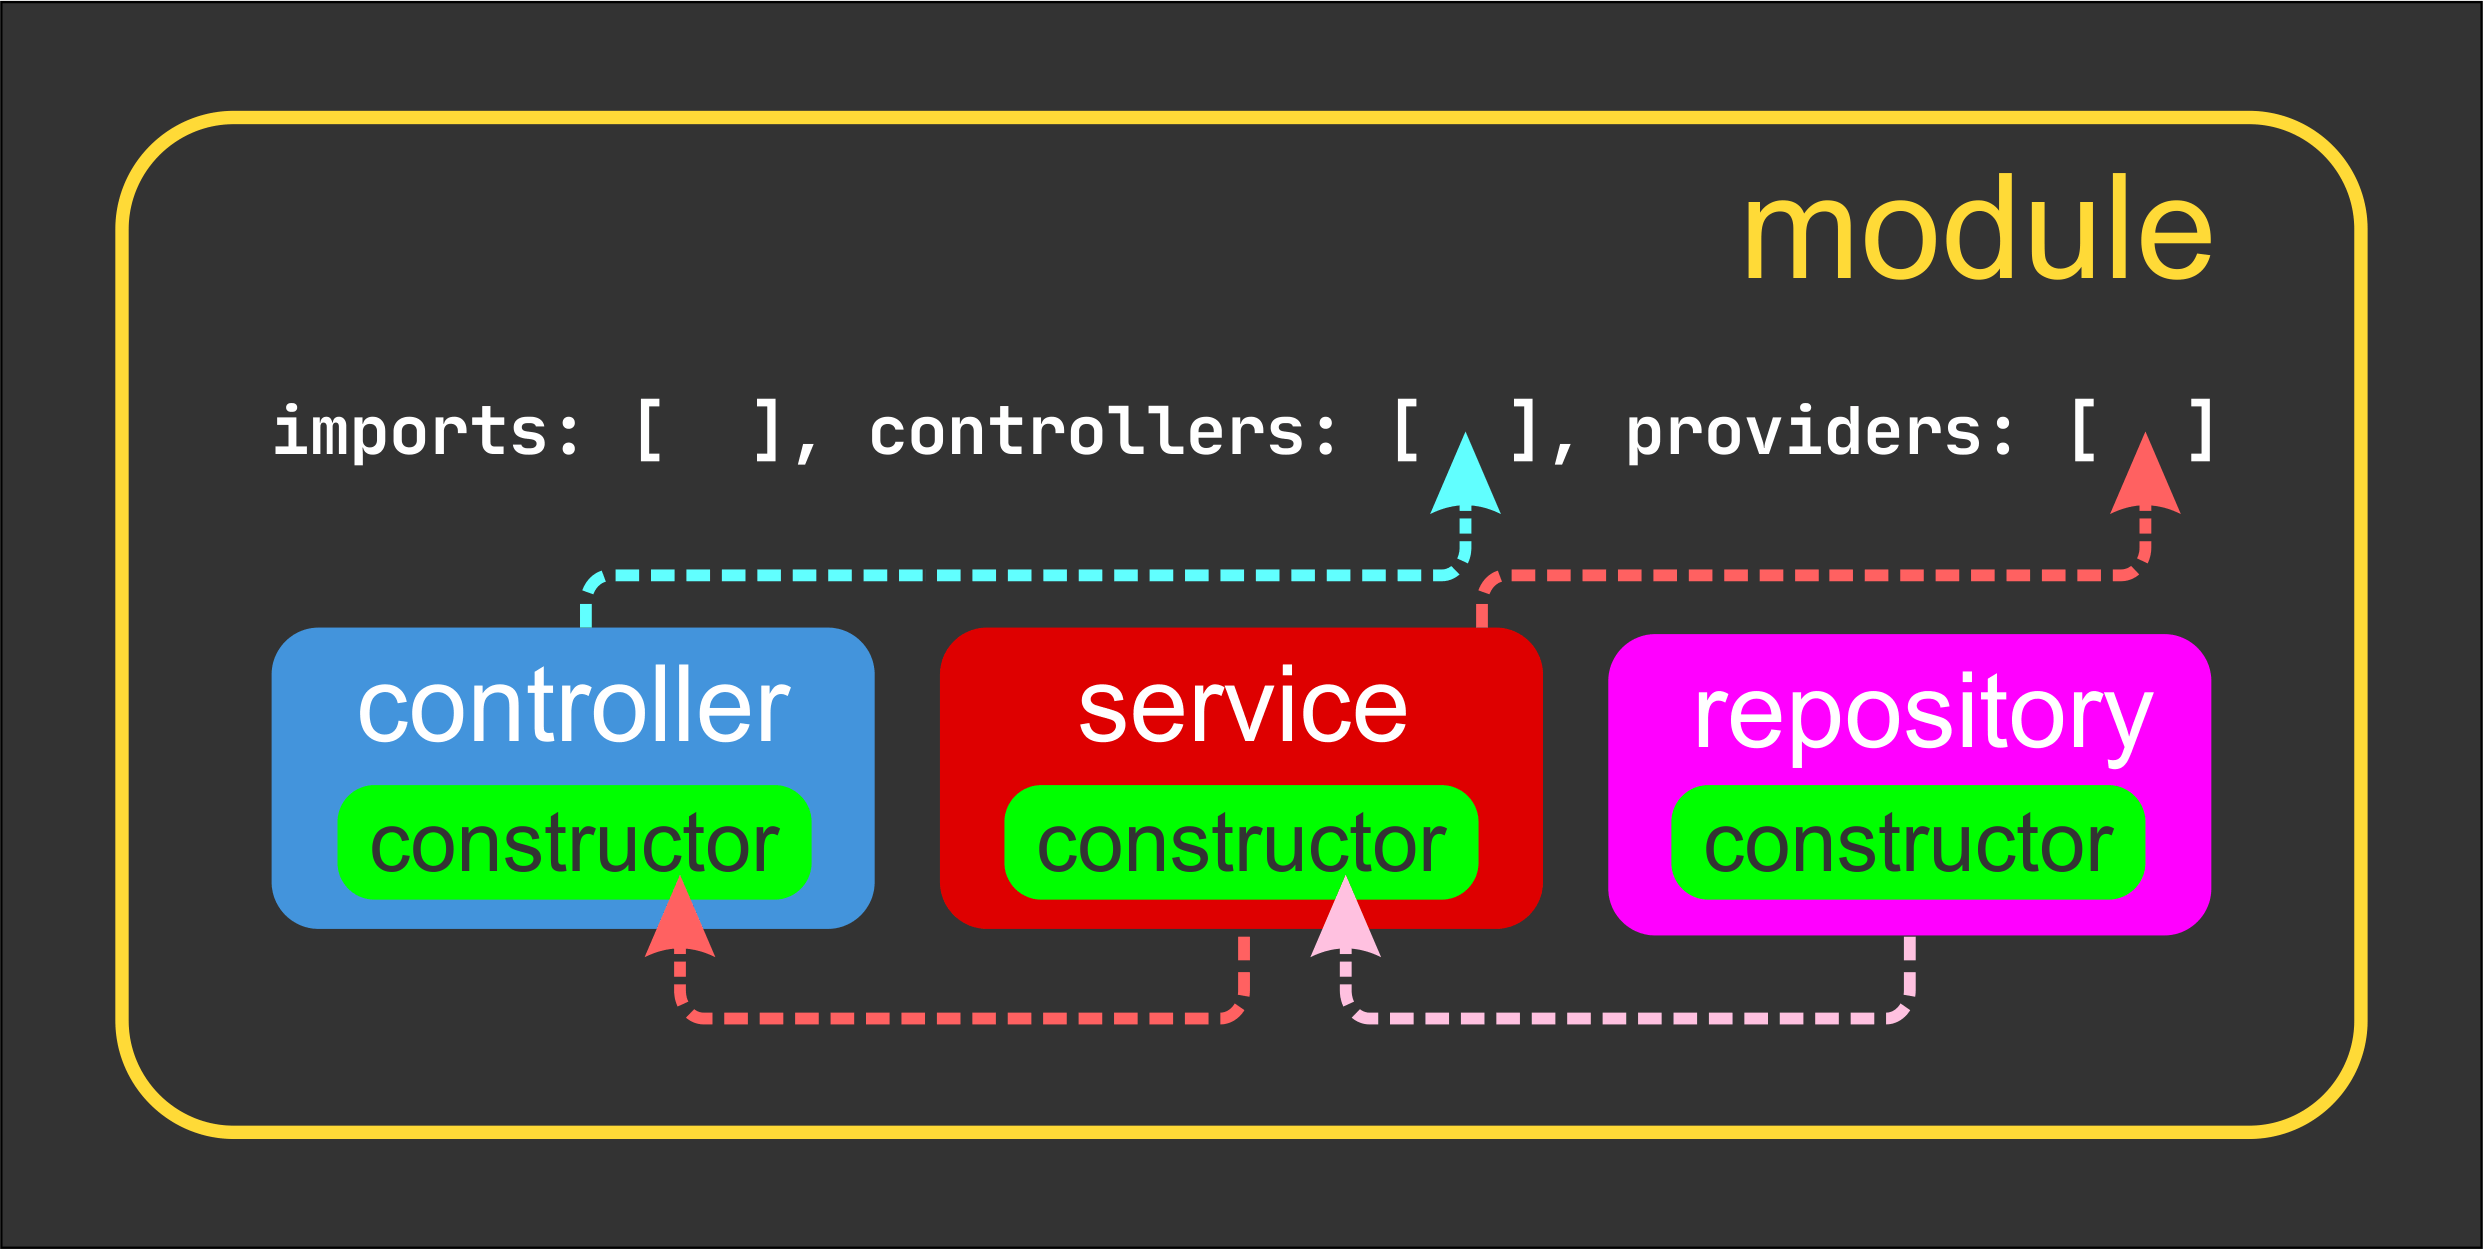
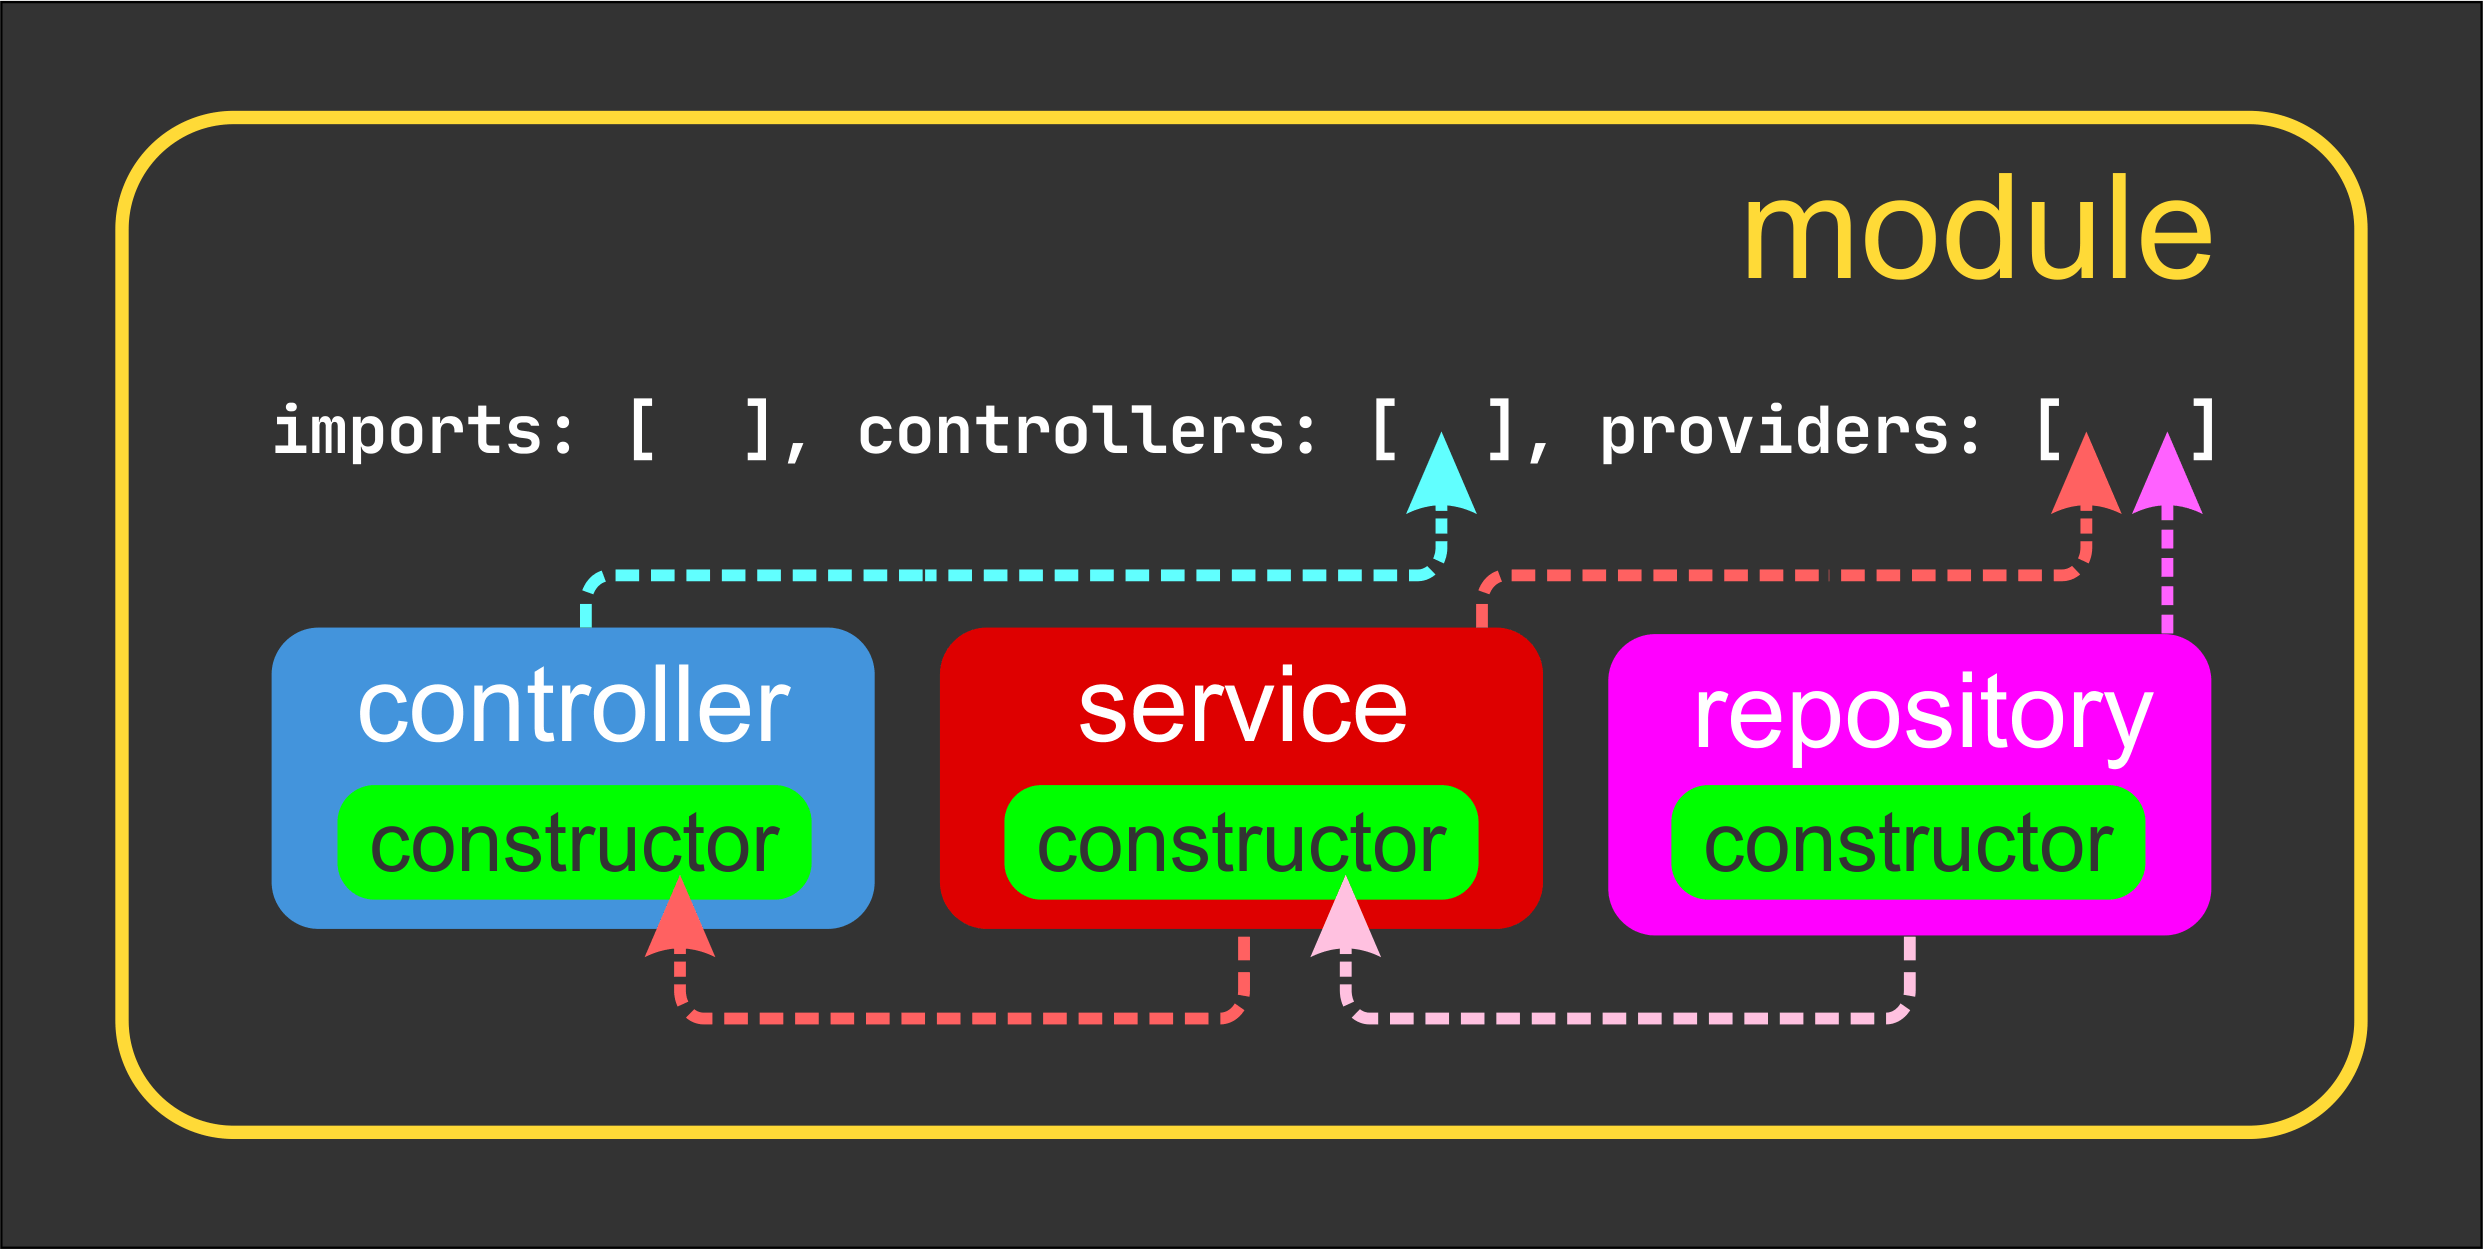
03-NestJS Fundamentals II

Changed region(s): [[0.2481, 0.3122, 0.8993, 0.4684], [0.124, 0.3122, 0.2171, 0.3747], [0.8683, 0.4684, 0.8993, 0.4996]]

diff --git a/src/users/users.module.ts b/src/users/users.module.ts
@@ -2,11 +2,47 @@ import { MiddlewareConsumer, Module, NestModule } from '@nestjs/common';
 import { UsersService } from './users.service';
 import { UsersController } from './users.controller';
 import { LoggerMiddleware } from 'src/middlewares/logger';
+import { UsersRepository } from './users.repository';
+
+const usersMockService = {
+  getUsers: () => {
+    return [
+      {
+        id: 1,
+        name: 'Mock User 01',
+        email: 'mockuser@gmail.com',
+      },
+    ];
+  },
+};
 
 @Module({
   imports: [],
   controllers: [UsersController],
-  providers: [UsersService],
+  providers: [
+    {
+      provide: UsersService,
+      //useValue: usersMockService
+      useClass: UsersService,
+    },
+    UsersRepository,
+    {
+      provide: 'API_USERS',
+      useFactory: async () => {
+        const apiUsers = await fetch(
+          'https://jsonplaceholder.typicode.com/users',
+        ).then((response) => response.json());
+        const cleanUsers = apiUsers.map((user: any) => {
+          return {
+            id: user.id,
+            name: user.name,
+            email: user.email,
+          };
+        });
+        return cleanUsers;
+      },
+    },
+  ],
 })
 export class UsersModule implements NestModule {
   configure(consumer: MiddlewareConsumer) {

diff --git a/src/todos/todos.service.ts b/src/todos/todos.service.ts
@@ -1,8 +1,20 @@
-import { Injectable } from "@nestjs/common";
+import { Inject, Injectable } from '@nestjs/common';
+import { TodosRepository } from './todos.repository';
 
 @Injectable()
 export class TodosService {
+  constructor(
+    @Inject('ACCESS_TOKEN') private access_token: string,
+    private readonly todosRepository: TodosRepository,
+  ) {}
+
   getTodos() {
-    return 'Get all todos';
+    const allTodos = this.todosRepository.getTodos();
+    //* Modifico info
+    if (this.access_token === 'EsteEsMiToken') {
+      return allTodos;
+    } else {
+      return 'Token Inválido, acceso denegado';
+    }
   }
 }

diff --git a/src/users/users.service.ts b/src/users/users.service.ts
@@ -1,8 +1,19 @@
-import { Injectable } from '@nestjs/common';
+import { Inject, Injectable } from '@nestjs/common';
+import { UsersRepository } from './users.repository';
 
 @Injectable()
 export class UsersService {
-  getUsers() {
-    return 'Get all users';
+  constructor(
+    @Inject('API_USERS') private api_users: any[],
+    private readonly usersRepository: UsersRepository) {}
+
+  async getUsers() {
+
+    const DBUsers = await this.usersRepository.getUsers();
+    const allUsers = [...this.api_users, ...DBUsers];
+
+    return allUsers;
   }
 }
+
+//* Ejecuta la lógica de negocio

diff --git a/src/todos/todos.repository.ts b/src/todos/todos.repository.ts
@@ -1,0 +1,29 @@
+import { Injectable } from "@nestjs/common";
+
+@Injectable()
+export class TodosRepository {
+  private todos = [
+    {
+      id: 1,
+      title: 'Todo 01',
+      description: 'Description 01',
+      isCompleted: false
+    },
+    {
+      id: 2,
+      title: 'Todo 02',
+      description: 'Description 02',
+      isCompleted: false
+    },
+    {
+      id: 3,
+      title: 'Todo 03',
+      description: 'Description 03',
+      isCompleted: false
+    },
+  ];
+
+  async getTodos() {
+    return await this.todos;
+  }
+}

diff --git a/src/todos/todos.module.ts b/src/todos/todos.module.ts
@@ -1,10 +1,20 @@
 import { Module } from '@nestjs/common';
 import { TodosController } from './todos.controller';
 import { TodosService } from './todos.service';
+import { TodosRepository } from './todos.repository';
+
+const ACCESS = 'EsteEsMiToken';
 
 @Module({
   imports: [],
   controllers: [TodosController],
-  providers: [TodosService],
+  providers: [
+    {
+      provide: 'ACCESS_TOKEN',
+      useValue: ACCESS,
+    },
+    TodosService,
+    TodosRepository,
+  ],
 })
 export class TodosModule {}

diff --git a/src/users/users.repository.ts b/src/users/users.repository.ts
@@ -1,0 +1,29 @@
+import { Injectable } from "@nestjs/common";
+
+@Injectable()
+export class UsersRepository {
+  //* Simular nuestra BBDD:
+  private users = [
+    {
+      id: 1,
+      name: 'Homero',
+      email: 'homero@gmail.com'
+    },
+    {
+      id: 2,
+      name: 'Marge',
+      email: 'marge@gmail.com'
+    },
+    {
+      id: 3,
+      name: 'Lisa',
+      email: 'lisa@gmail.com'
+    },
+  ];
+
+  async getUsers() {
+    return await this.users;
+  }
+}
+
+//* Conectarse con el exterior

diff --git a/src/app.module.ts b/src/app.module.ts
@@ -8,7 +8,10 @@ import { MorganMiddleware } from './middlewares/morgan.middleware';
 @Module({
   imports: [UsersModule, TodosModule],
   controllers: [AppController],
-  providers: [AppService],
+  providers: [{
+    provide: AppService,
+    useClass: AppService
+  }],
 })
 export class AppModule implements NestModule {
   configure(consumer: MiddlewareConsumer) {

diff --git a/src/users/users.controller.ts b/src/users/users.controller.ts
@@ -11,3 +11,8 @@ export class UsersController {
     return this.usersService.getUsers();
   }
 }
+
+//* Evalúa path y método HTTP
+//* Desestructurar información
+//* Ejecuta el servicio
+//* Da respuesta al usuario

diff --git a/XpertReadmes/NestJS-03.md b/XpertReadmes/NestJS-03.md
@@ -1,3 +1,9 @@
 # Nest JS - Nest JS Fundamentals II
 
 [Volver a Inicio](../README.md)
+
+## Módulos, Controladores, Servicios y Repositorios
+
+<img src="./assets/nest-02-01.png" style="margin: 20px 0 60px 0">
+
+<img src="./assets/nest-02-02.png" style="margin: 20px 0 60px 0">
